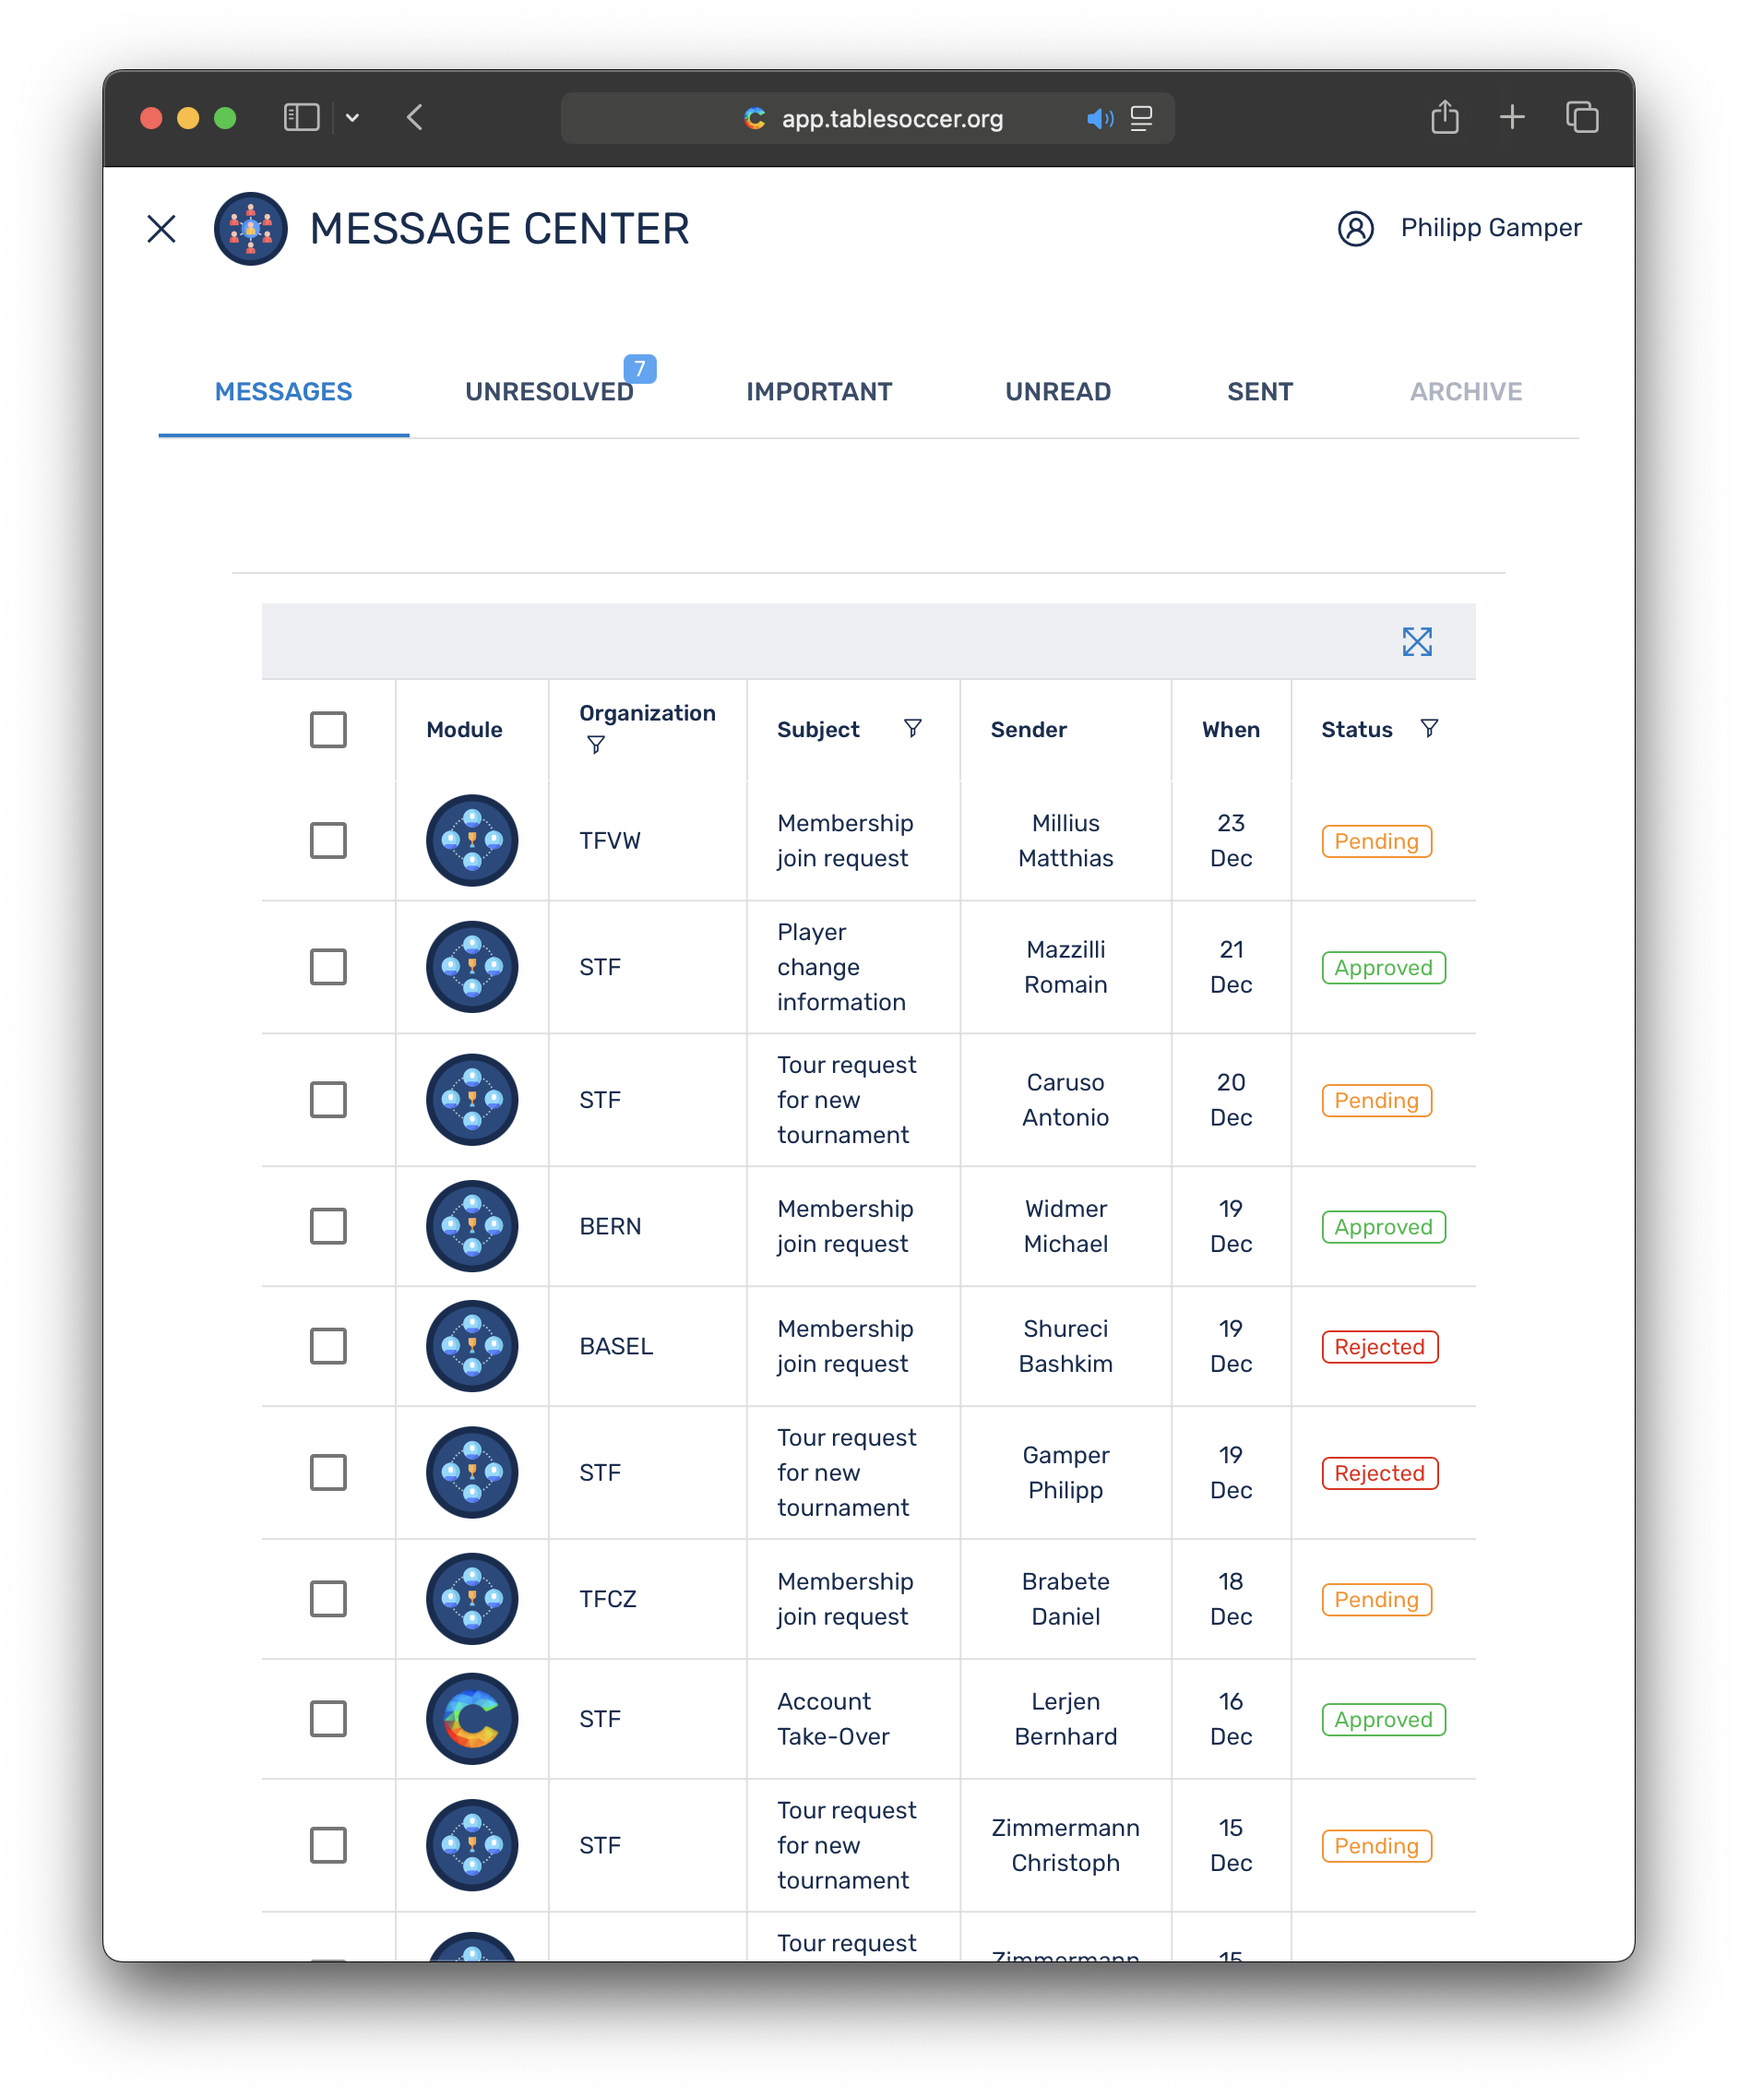
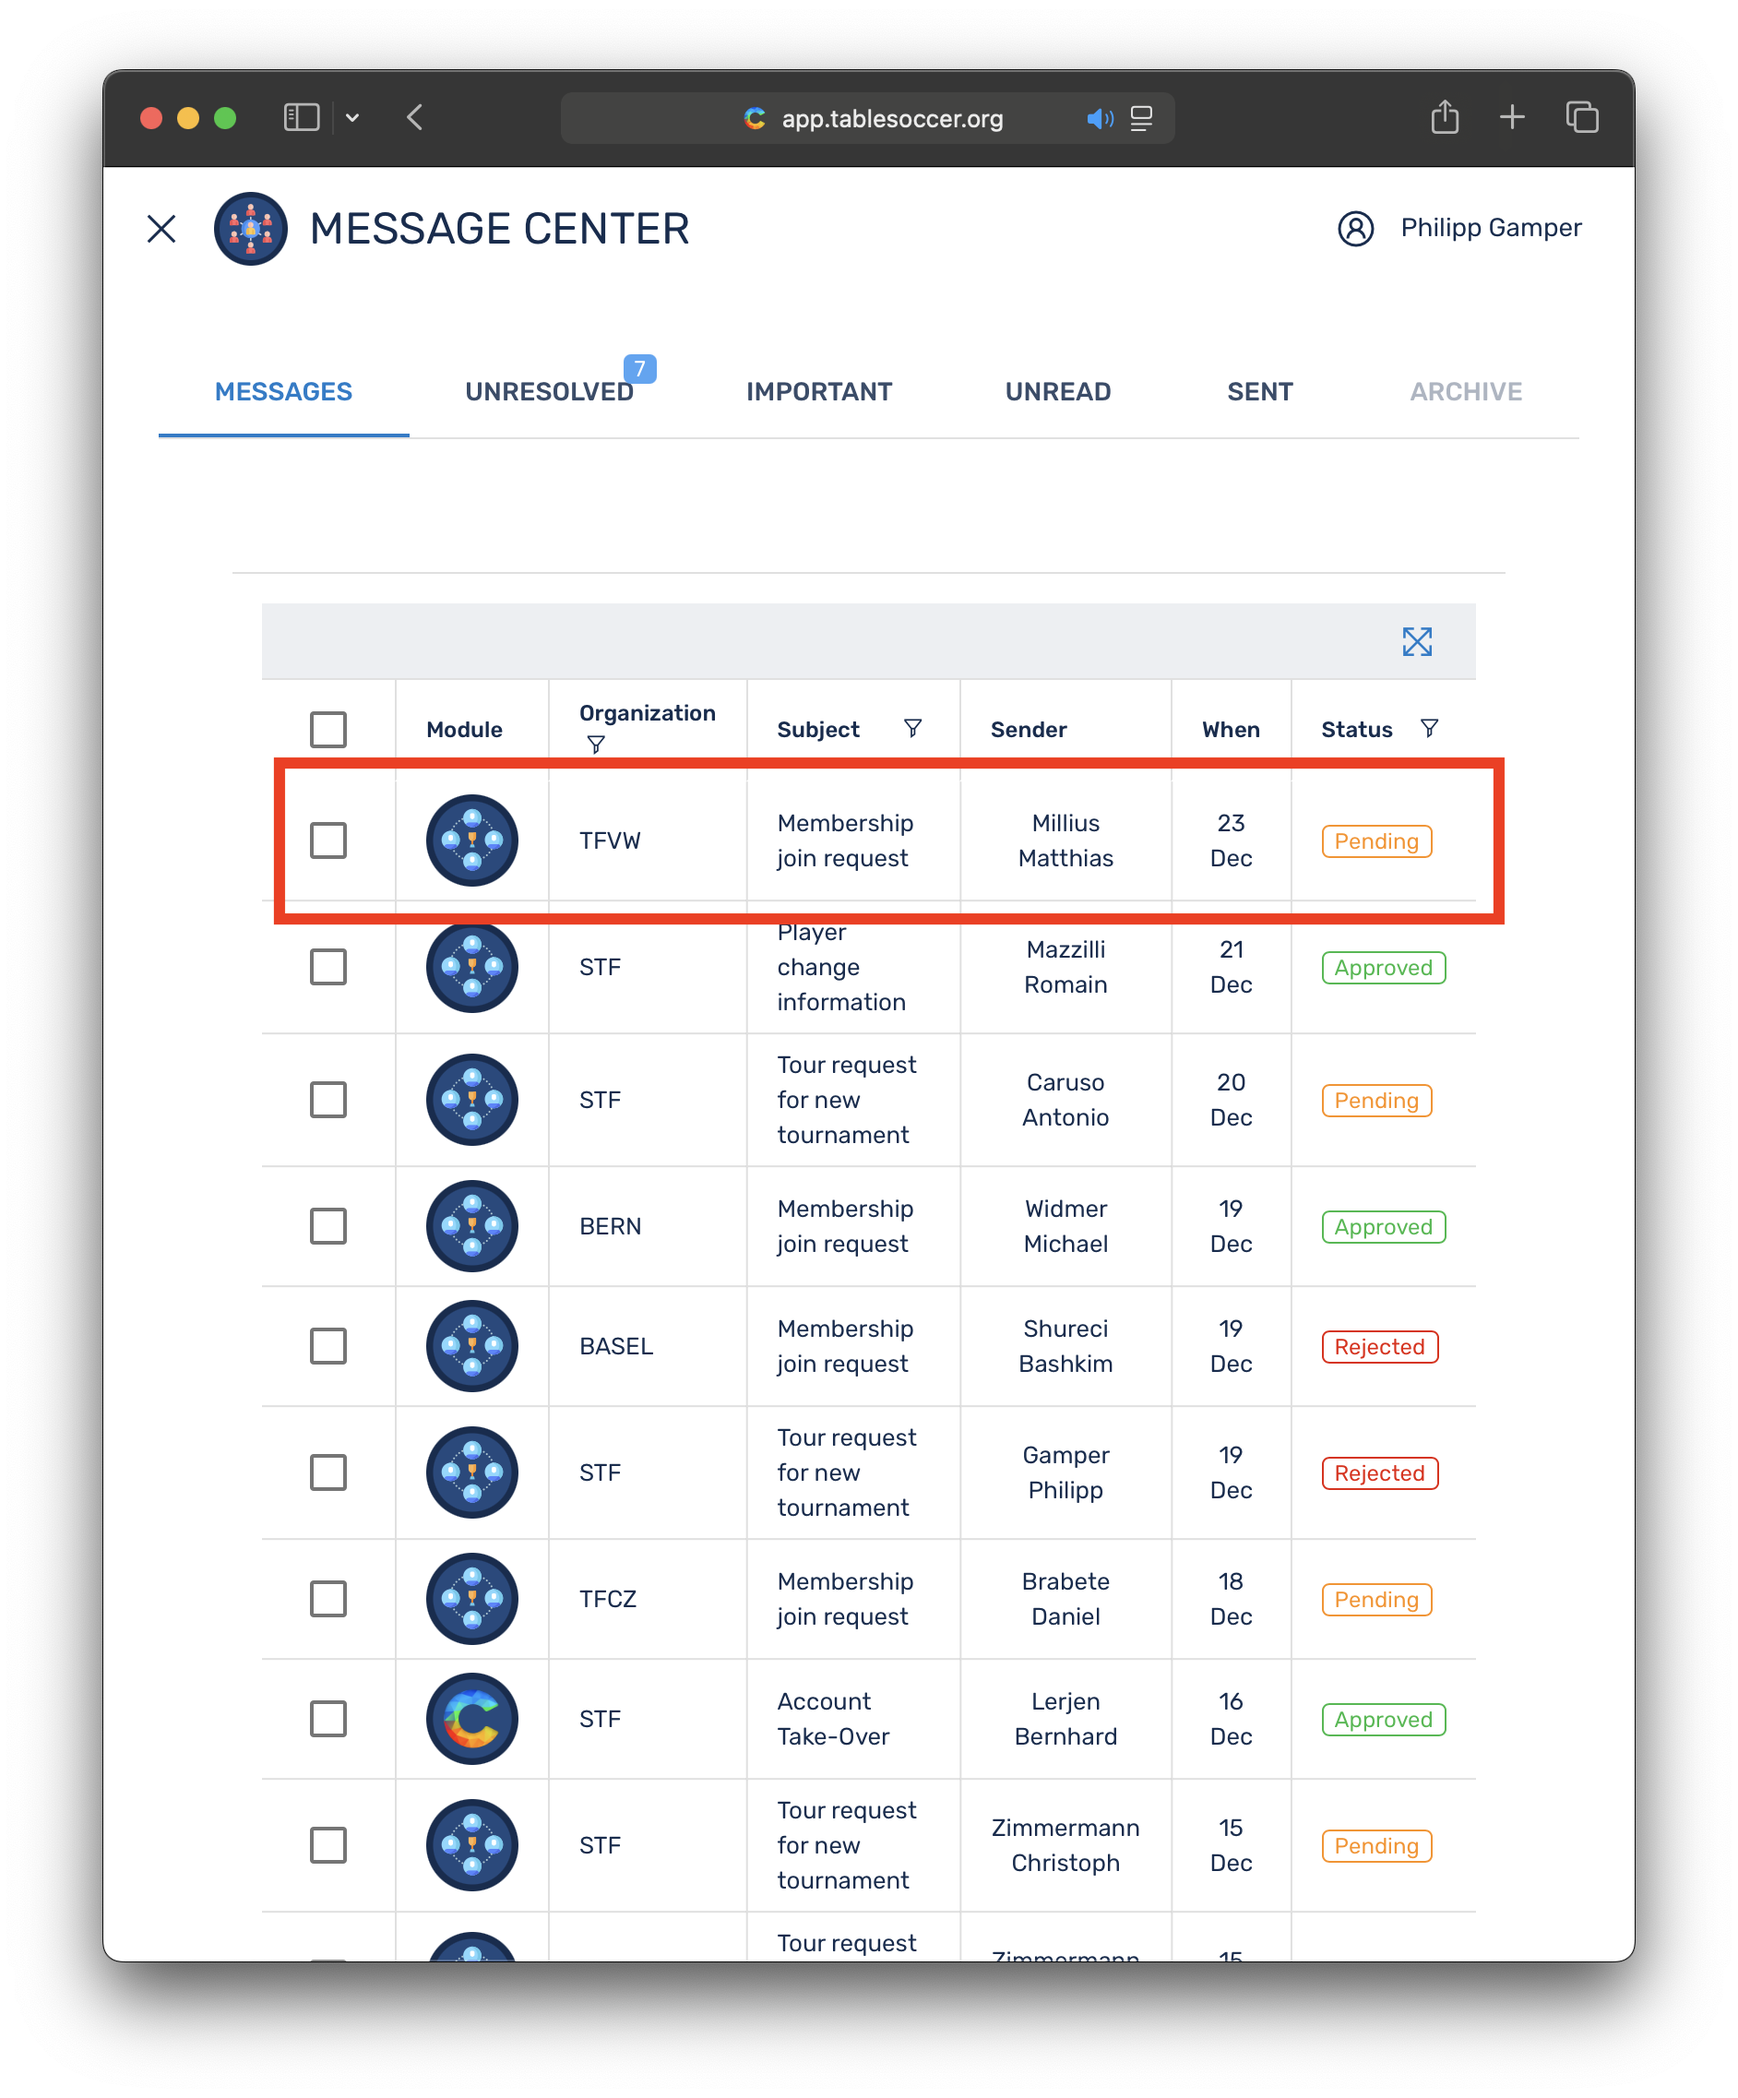
improved screenshots

Changed region(s): [[0.1539, 0.3434, 0.8928, 0.4683]]

diff --git a/licenses/README.md b/licenses/README.md
@@ -42,7 +42,7 @@ Basierend auf dem neuen [Finanzreglement](https://static1.squarespace.com/static
 | __Gast (inkl. ITSF)__ *(International)* | Keine* | __CHF 15__ | Keine | Keine | __CHF 25__ |
 | __Gast (exkl. ITSF)__ *(National)* | Keine | N/A | Keine | Keine | N/A |
 
-__\*__ Für STS-Turniere mit ITSF-Status (250, 500, 750) ist eine *aktive* ITSF-Lizenz notwendig. Die Lizenztypen __*Clubmitglied (inkl. ITSF)**__ und __*Gast (inkl. ITSF)*__ erlauben dem Breitensport (gelegenheits Pub-Spieler) einen erleichterten Einstieg in die Turnierwelt und __keine__ kostenlose ITSF-Lizenz. Bei Missbrauch werden gemäss [Finanzreglement](https://static1.squarespace.com/static/6797790a8025010384cf53f2/t/68ffb77095bbce1af05a15ac/1761589104375/2025-10-23-Finanzreglement+Turnier+%26+Lizenzwesen.pdf) (3.2.1) CHF 25.- in Rechnung gestellt.
+__\*__ Für STS-Turniere mit ITSF-Status (250, 500, 750) ist eine *aktive* ITSF-Lizenz notwendig. Die Lizenztypen __*Clubmitglied (inkl. ITSF)**__ und __*Gast (inkl. ITSF)*__ erlauben dem Breitensport (gelegenheits Pub-Spieler) einen erleichterten Einstieg in die Turnierwelt und __keine__ kostenlose ITSF-Lizenz. Bei Missbrauch werden gemäss [Finanzreglement](https://static1.squarespace.com/static/6797790a8025010384cf53f2/t/68ffb77095bbce1af05a15ac/1761589104375/2025-10-23-Finanzreglement+Turnier+%26+Lizenzwesen.pdf) (3.2.1) CHF 25 in Rechnung gestellt.
 
 *__Disclaimer:__ Vereine dürfen Gäste ablehnen oder aber eine Administrationsgebühr verlangen. Die STF hat keinen Einfluss auf die Handhabung der einzelnen Vereine.*
 
@@ -54,7 +54,7 @@ __\*__ Für STS-Turniere mit ITSF-Status (250, 500, 750) ist eine *aktive* ITSF-
 
 ### Beantragen durch Spielende
 
-__Erstmaliges beantragen einer Lizenz__ siehe [Einem Club beitreten](https://register.swisstablesoccer.ch/licenses#einem-club-beitreten)
+__Erstmaliges beantragen einer Lizenz__ siehe [Einem Club beitreten](https://register.swisstablesoccer.ch/#einem-club-beitreten)
 
 __Erneuern einer Lizenz__
 
@@ -65,17 +65,14 @@ __Erneuern einer Lizenz__
 Die STF hat für jeden Mitgliederverein einen _Organisationsmanager_ ernannt. Dieser ist für die Kontrolle und Freigabe von Lizenzanfragen zuständig. Durch die Freigabe von beantragten Lizenzen anfallende Kosten werden von der STF dem entsprechenden Verein in Rechnung gestellt. Die Kontrolle und das Einfordern ausstehender Beträge liegt in der Verantwortung der Vereine.
 
 1. Kontrolle des gewählten Lizenztyps. Passt der Lizenztyp zur Person?
-
-![Messages](img/check-01.png){: width="320px" }
-![Message Center](img/check-02.png){: width="320px" }
-
+    ![Messages](img/check-01.png){: width="320px" }
+    ![Message Center](img/check-02.png){: width="320px" }
+    ![Check License](img/check-03.png){: width="320px" }
+    ![Check License](img/check-04.png){: width="320px" }
 2. Im Zweifelsfall bei der Person nachfragen und den Lizenztyp vor der Freigabe Anpassen. 
-
-![Check License](img/check-03.png){: width="320px" }
-
+    ![Change License](img/check-06.png){: width="320px" }
 3. _Freigabe_ oder _Ablehnung_ der Anfrage.
-
-![Approve](img/check-04.png){: width="320px" }
+    ![Approve](img/check-05.png){: width="320px" }
 
 
 
@@ -190,4 +187,4 @@ Die nachfolgende Tabelle zeigt Personen je Verein, welche für die Freigabe zust
 | __Gast (inkl. ITSF)__ *(International)* | Breitensport, enthält ITSF-Lizenz, __keine Rangierung__ | STS, STRT Pro, STRT | __CH-Meisterschaft__, ITSF-Turniere im __Ausland__* | Keine* | __CHF 15__ | Keine | __CHF 25__ |
 | __Gast (exkl. ITSF)__ *(National)* | Breitensport *ohne Lizenzierung*, __keine Rangierung__| STRT Pro, STRT | __CH-Meisterschaft__, ITSF-Turniere im __Ausland__*, STS |  Keine | N/A | Keine | N/A |
 
-__\*__ Für STS-Turniere mit ITSF-Status (250, 500, 750) ist eine *aktive* ITSF-Lizenz notwendig. Die Lizenztypen __*Clubmitglied (inkl. ITSF)**__ und __*Gast (inkl. ITSF)*__ erlauben dem Breitensport (gelegenheits Pub-Spieler) einen erleichterten Einstieg in die Turnierwelt und __keine__ kostenlose ITSF-Lizenz. Bei Missbrauch werden gemäss [Finanzreglement](https://static1.squarespace.com/static/6797790a8025010384cf53f2/t/68ffb77095bbce1af05a15ac/1761589104375/2025-10-23-Finanzreglement+Turnier+%26+Lizenzwesen.pdf) (3.2.1) CHF 25.- in Rechnung gestellt.
+__\*__ Für STS-Turniere mit ITSF-Status (250, 500, 750) ist eine *aktive* ITSF-Lizenz notwendig. Die Lizenztypen __*Clubmitglied (inkl. ITSF)**__ und __*Gast (inkl. ITSF)*__ erlauben dem Breitensport (gelegenheits Pub-Spieler) einen erleichterten Einstieg in die Turnierwelt und __keine__ kostenlose ITSF-Lizenz. Bei Missbrauch werden gemäss [Finanzreglement](https://static1.squarespace.com/static/6797790a8025010384cf53f2/t/68ffb77095bbce1af05a15ac/1761589104375/2025-10-23-Finanzreglement+Turnier+%26+Lizenzwesen.pdf) (3.2.1) CHF 25 in Rechnung gestellt.
